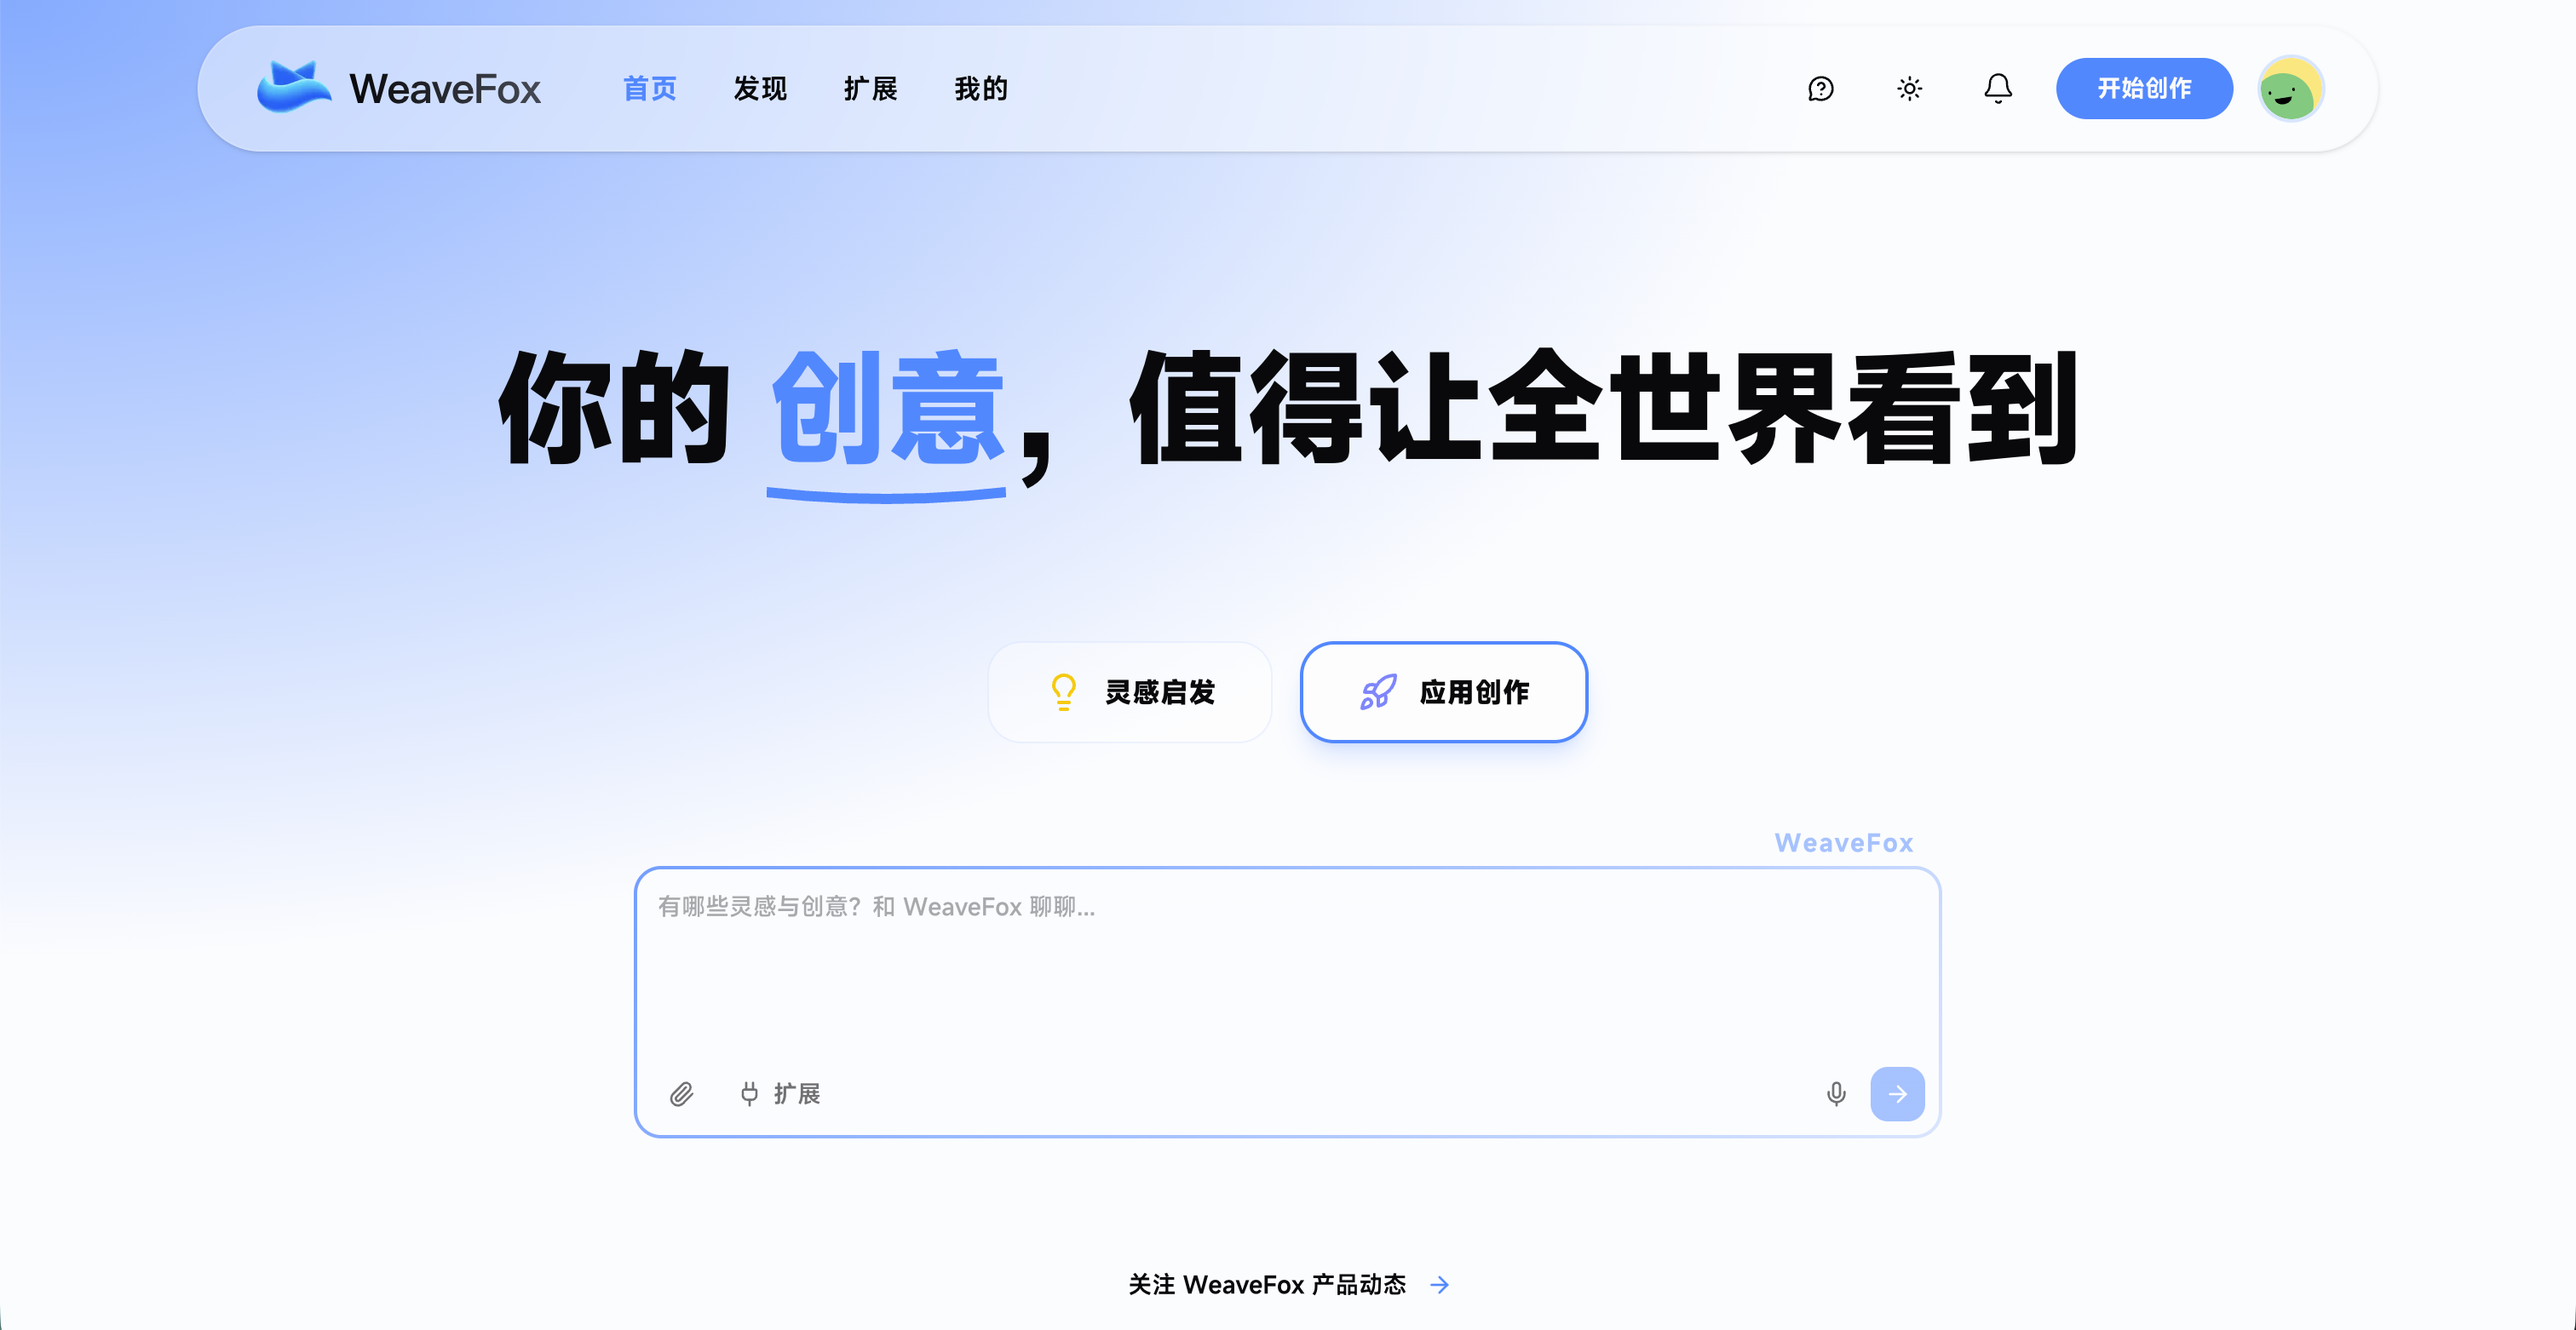
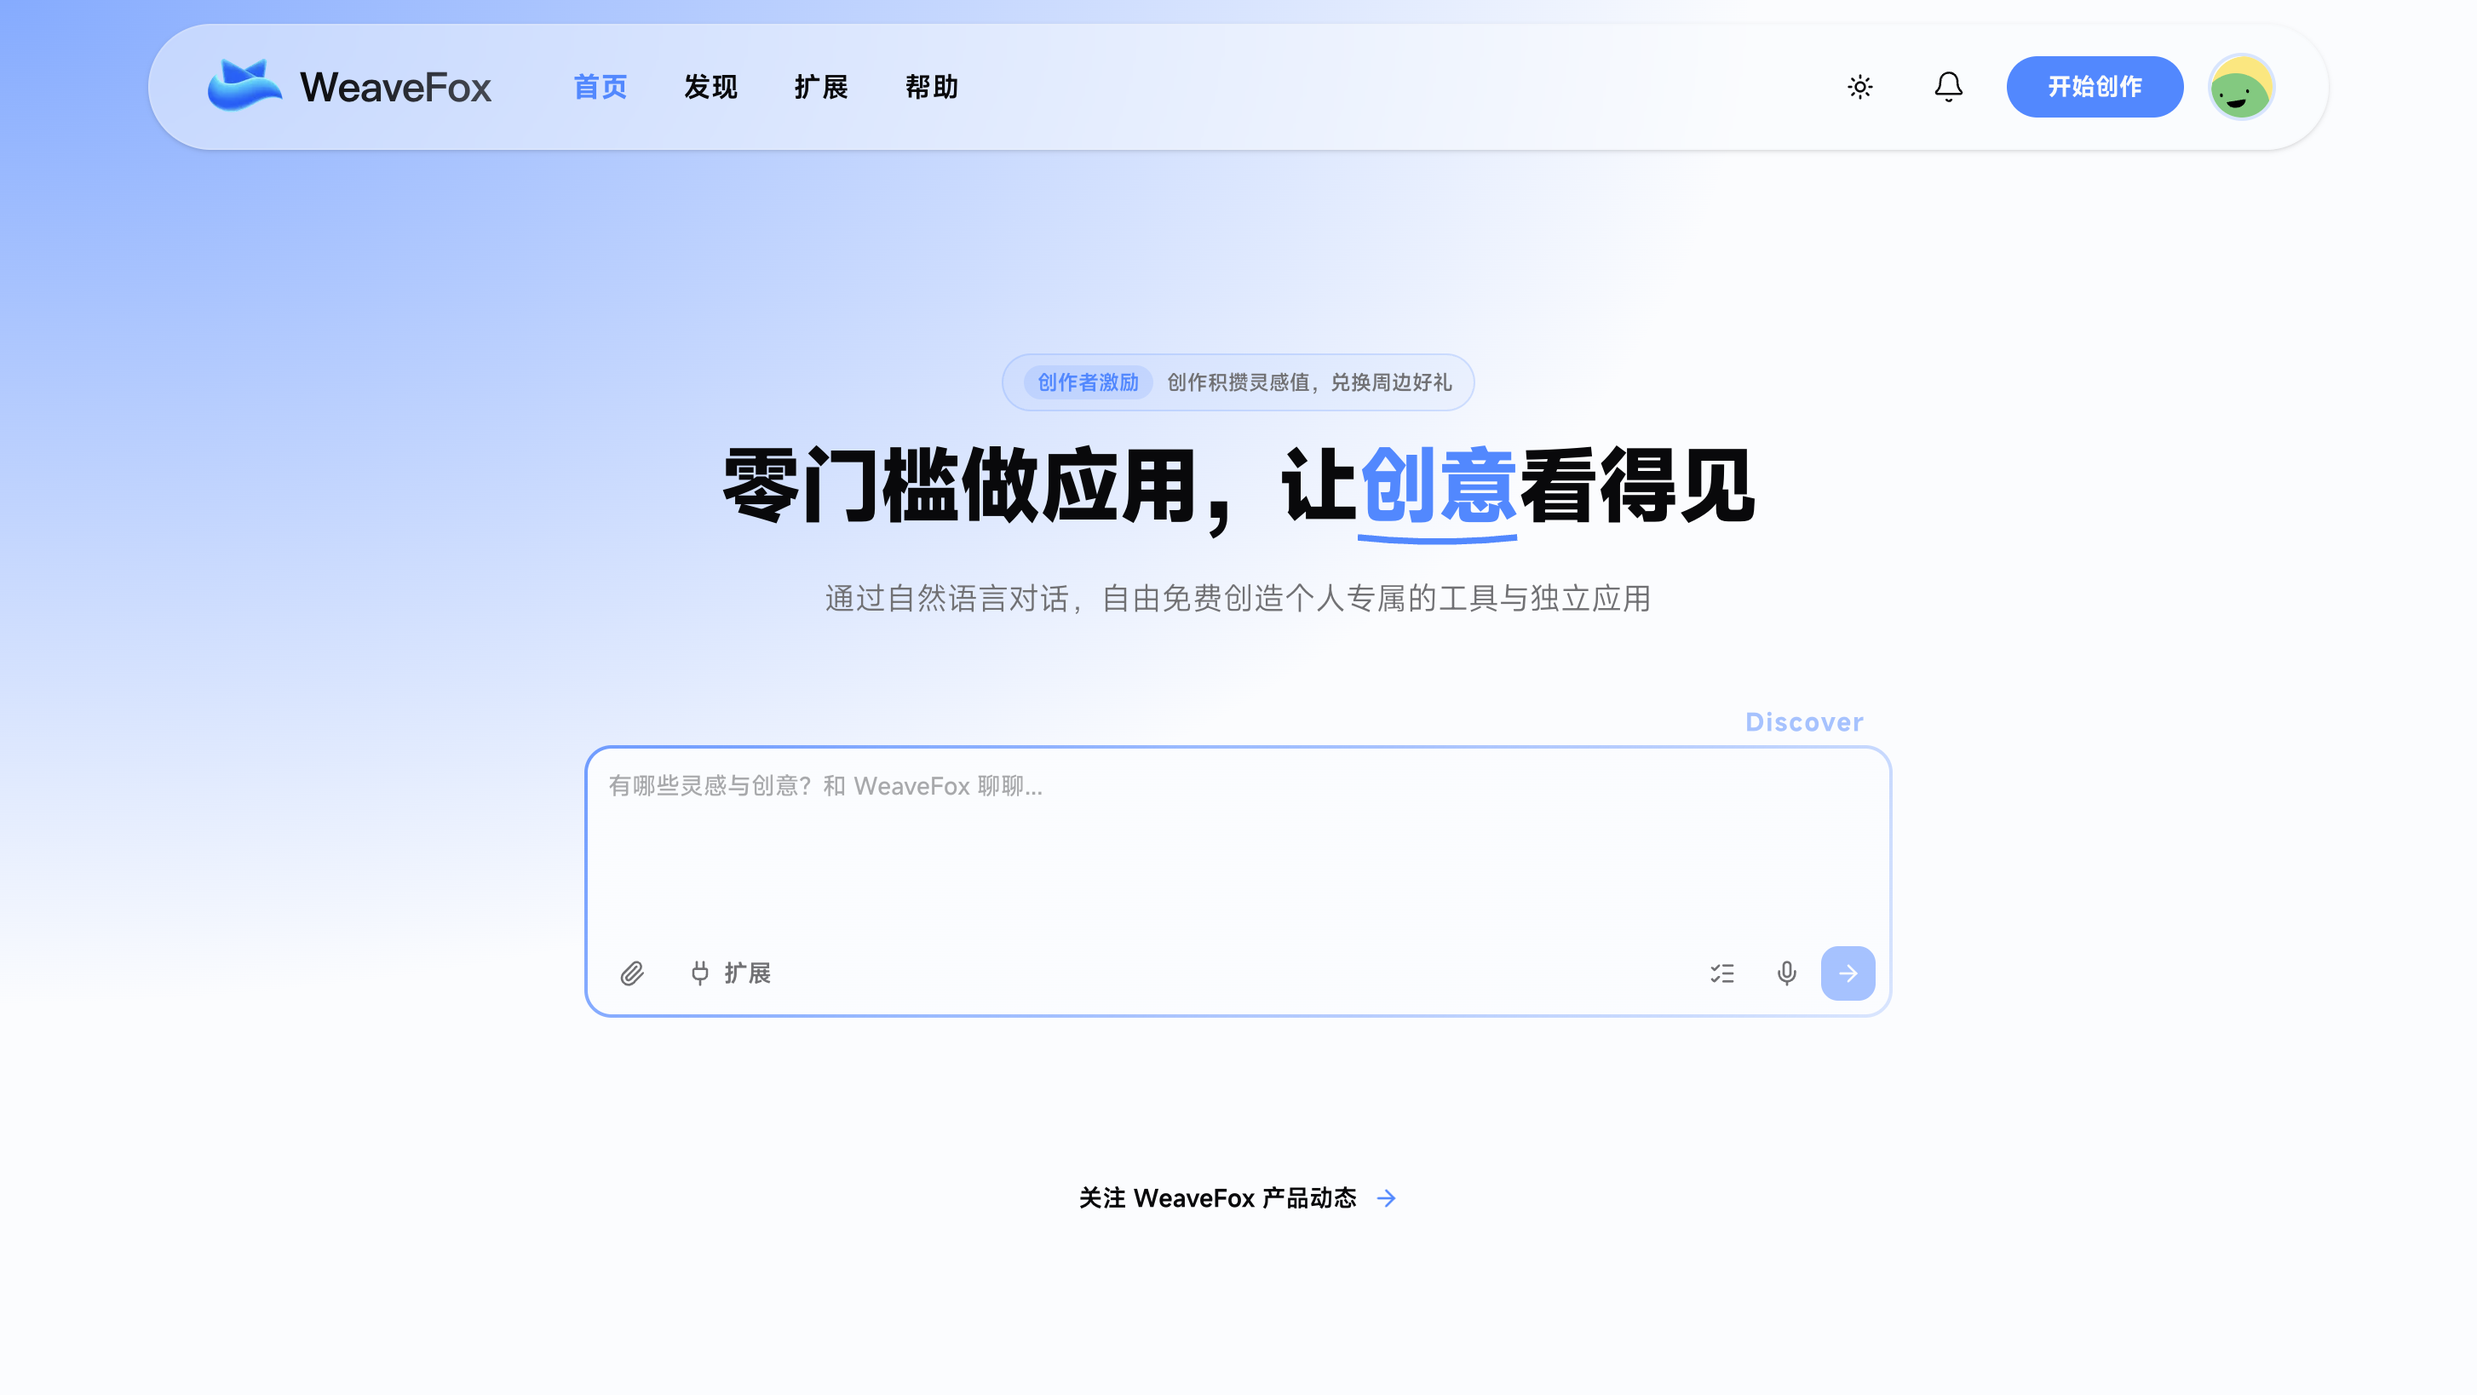
docs: add user behavior tracking documentation
- Add analytics feature page with product overview, default metrics, and custom event setup
- Add tracking integration guide with SDK API details and code examples
- Update integrations overview with new analytics category
- Update README and weavefox-docs skill with analytics references

diff --git a/docusaurus.config.ts b/docusaurus.config.ts
@@ -6,7 +6,7 @@ import type * as Preset from '@docusaurus/preset-classic';
 
 const config: Config = {
   title: 'WeaveFox',
-  tagline: '你的创意，值得让全世界看到',
+  tagline: '零门槛做应用，让创意看得见',
   favicon: 'img/favicon.ico',
 
   // Future flags, see https://docusaurus.io/docs/api/docusaurus-config#future

diff --git a/README.md b/README.md
@@ -1,8 +1,8 @@
 # WeaveFox 文档
 
-[WeaveFox](https://www.weavefox.cn/) 是免费的 AIGC 创作平台，聚焦「应用生成 + 垂类场景创作工具」两大核心场景，为用户提供极致的创作与分享体验。只需简单的文字描述，就能将灵感转化为具象的现实。
+[WeaveFox](https://www.weavefox.cn/) 是**免费**的 AI 应用创作平台。无需代码，通过自然语言对话，自由创造个人专属的工具与独立应用。让创意即刻成形，一键即可分享给所有人使用。
 
-> 在线文档：[docs.weavefox.ai](https://docs.weavefox.ai)
+> 官方文档：[docs.weavefox.ai](https://docs.weavefox.ai)
 
 ![WeaveFox 首页](/static/img/weavefox-home.png)
 
@@ -34,6 +34,7 @@ WeaveFox 核心功能的使用指南：
 - **应用协作** — 邀请团队成员协作编辑，只读/读写权限管理
 - **发布应用** — 预览与发布的区别、访问控制、发布与下架操作
 - **自定义域名** — 为应用绑定自定义域名，提升品牌与 SEO
+- **数据分析** — 内置用户行为分析，自动采集 PV/UV、设备分布等数据，支持自定义事件埋点
 
 ### 集成服务（Integrations）
 
